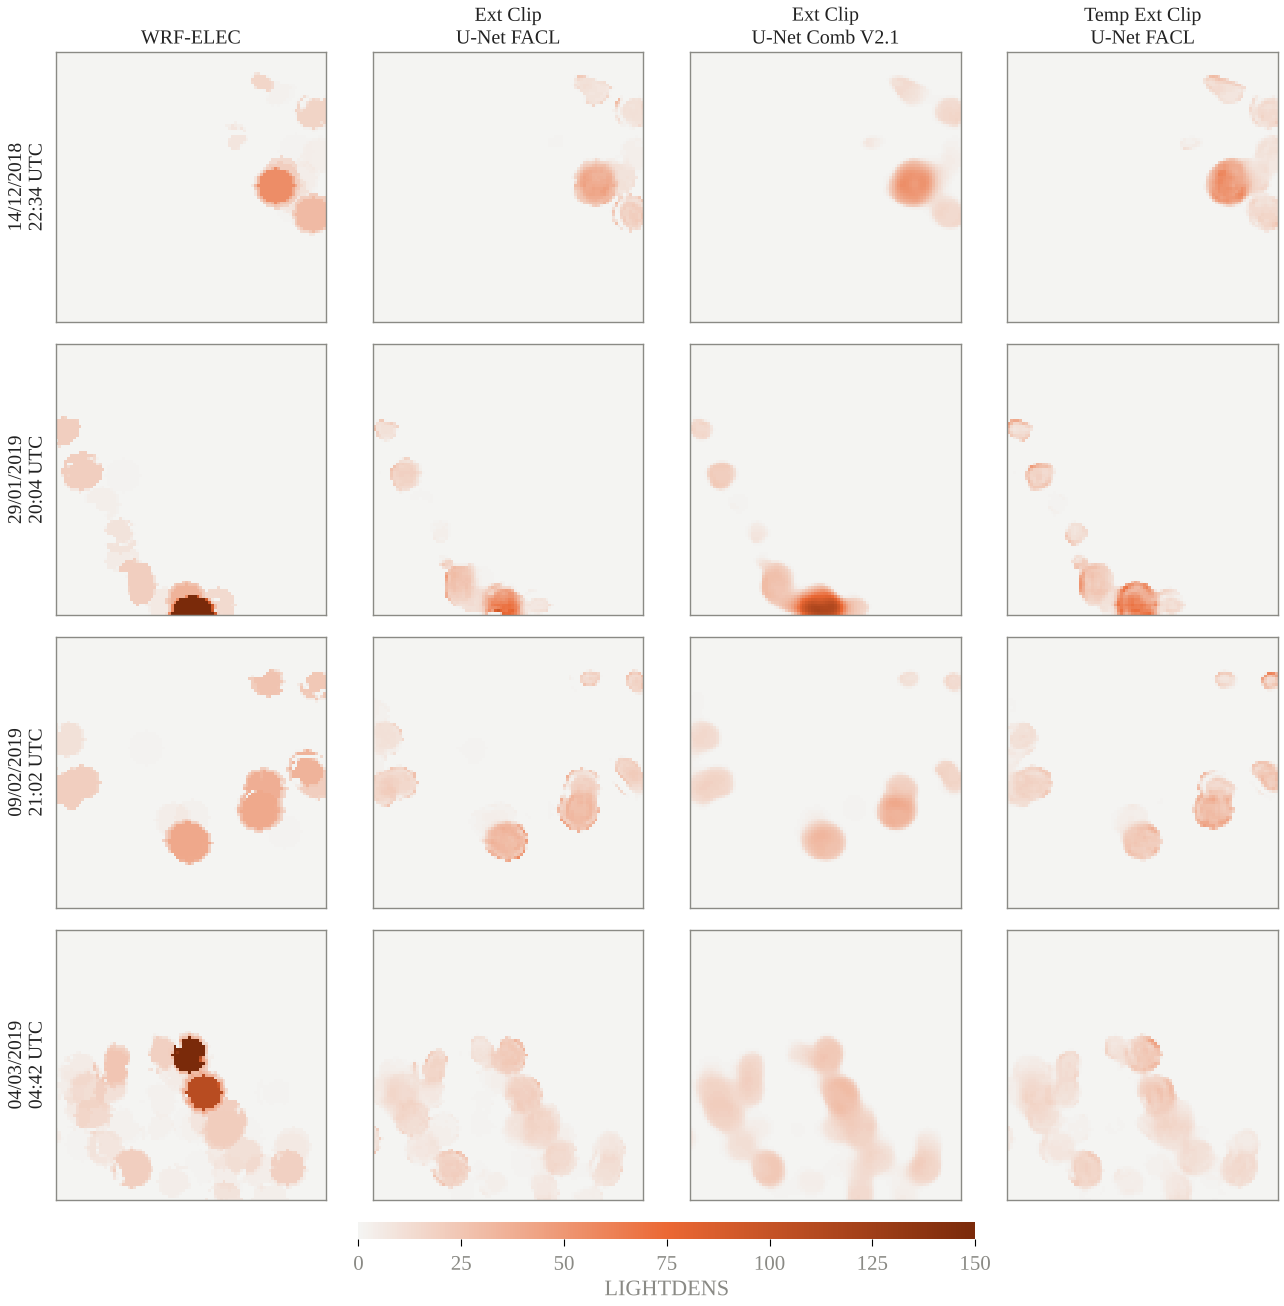
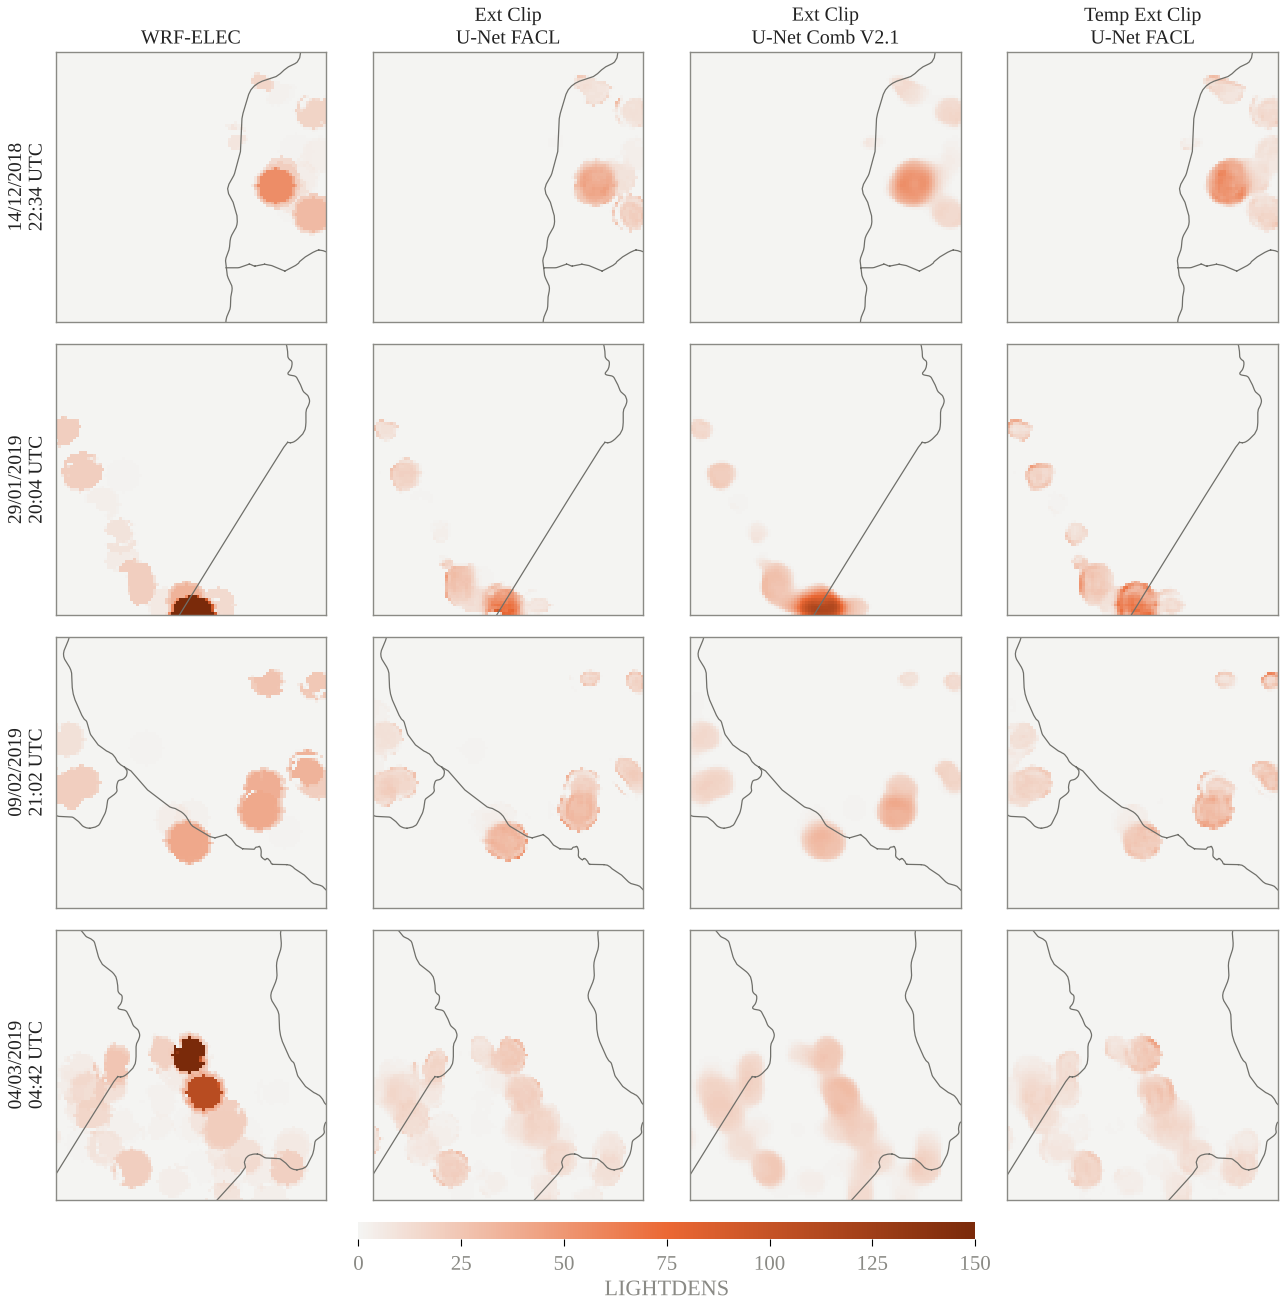
Reconstrucciones por tormenta: límites provinciales
Claude-Session: https://claude.ai/code/session_01Frs8FGwX9oEYUKW8hEN5da

diff --git a/figuras/generar_figuras_modelos.py b/figuras/generar_figuras_modelos.py
@@ -167,6 +167,7 @@ def _recortes_tormentas():
     mods = ("y_real", "pred_ext_ultima", "pred_comb_clip", "pred_temp")
     out = {m: [] for m in mods}
     out["archivos"] = []
+    out["origen"] = []
     for k in INSTANTES_TORMENTAS:
         g = gaussian_filter(D["y_real"][k].astype(float), 6)
         cy, cx = np.unravel_index(g.argmax(), g.shape)
@@ -176,6 +177,7 @@ def _recortes_tormentas():
             out[m].append(D[m][k][cy - MITAD:cy + MITAD,
                                   cx - MITAD:cx + MITAD])
         out["archivos"].append(str(D["archivos"][k]))
+        out["origen"].append((cy - MITAD, cx - MITAD))
     out = {m: np.array(v) for m, v in out.items()}
     np.savez_compressed(chico, **out)
     return out
@@ -199,9 +201,14 @@ def fig_comparacion_tormentas():
                                  "%Y-%m-%d_%H-%M-%S")
         for j, (clave, nom) in enumerate(cols):
             ax = fig.add_subplot(gs[i, j])
+            fy, fx = [int(v) for v in R["origen"][i]]
+            n = R[clave][i].shape[0]
             im = ax.imshow(R[clave][i], origin="lower",
                            cmap=SEQ_RAYOS, vmin=0, vmax=vmax,
-                           interpolation="nearest")
+                           interpolation="nearest",
+                           extent=(fx - 0.5, fx + n - 0.5,
+                                   fy - 0.5, fy + n - 0.5))
+            limites(ax)
             ax.set_xticks([])
             ax.set_yticks([])
             for lado in ax.spines.values():
